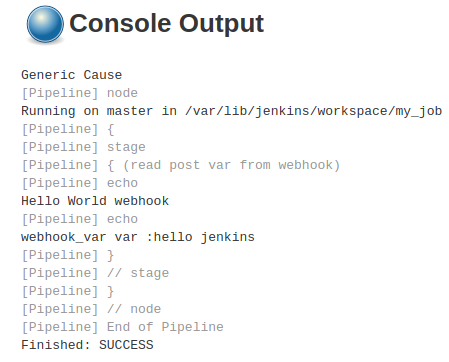
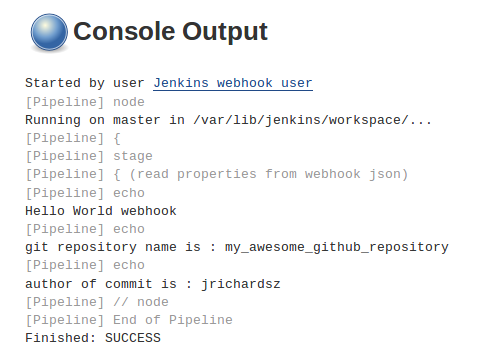
improve webhook post

Changed region(s): [[0.0312, 0.1823, 0.9978, 0.9724], [0.0624, 0.0, 0.5924, 0.1519], [0.4053, 0.7597, 0.5924, 0.8204]]

diff --git a/_posts/2018-01-24-devops-with-git-and-jenkins-using-webhooks.md b/_posts/2018-01-24-devops-with-git-and-jenkins-using-webhooks.md
@@ -11,26 +11,73 @@ In this post I will show you how integrate git  and jenkins to make a basic devo
 
 ![https://www.fourkitchens.com/wp-content/uploads/2017/01/Jenkins_git_0.png](https://www.fourkitchens.com/wp-content/uploads/2017/01/Jenkins_git_0.png)
 
-# Goals
+# Requirement
 
 - When I push to my git repository I need to launch  a jenkins job.
-- This Jenkins job must be access to some variables from webhook post in order to build my app, like
-  - repository git url
-  - pushed branch
 
-# GIT
+# Approach 01
 
-This topic is easy. We need some repository without errors and ready to build. For this post we will use a public github repository to avoid authentication configurations like : ssh-agent, ssh keys, etc. In subsequent posts I will show the exact steps to do this.
+- Create a job in jenkins in which you must clone the git repository at regular intervals. 
 
-# Jenkins
+> This is simple but, hardware consumption is elevated and is a little **outdated**
 
-We need the latest version of this CI Server.
+# Approach 02
 
-This is the common way to install jenkins on linux: [https://www.digitalocean.com/community/tutorials/how-to-install-jenkins-on-ubuntu-16-04](https://www.digitalocean.com/community/tutorials/how-to-install-jenkins-on-ubuntu-16-04)
+- Use the latest functionality provided by github, gitlab, bitbucket, etc called : **webhooks** and some configurations in our Jenkins platform.
+- This is the proposed flow :
 
-# Requirements
+![webhook-flow](https://raw.githubusercontent.com/airavata-courses/TeamAlpha/master/Airavata_Remote_Job_Runner/Instructions/Jenkins.png)
 
-- Jenkins instance ready to use.
+- Instead of tomcat and postgress you could use any technology.
+- In the arrow from github to jenkins we appreciate a string **webhook**. This represent a json sent from github to jenkins. We will call **webhook_json** to this json. In this json, github send us data like :
+  - git repository name
+  - branch which was changed
+  - commit id
+  - commit message
+  - commit author
+  - etc
+- This is an example of webhook json sent by github when a push is performed : [https://gist.github.com/jrichardsz/3ded3cb429d51cc826373e8bded15a8f](https://gist.github.com/jrichardsz/3ded3cb429d51cc826373e8bded15a8f)  
+
+> In this post I will show you how implement this **approach 02**.
+
+# Coming soon
+
+- I will develop a simple plugin to make life easier. This plugin will be called : **easy webhook plugin**
+
+# Prerequisites
+
+- Jenkins Server
+
+  - We need an instance ready to use of the latest version of this CI Server. 
+  - This is the common way to install jenkins on linux: [https://www.digitalocean.com/community/tutorials/how-to-install-jenkins-on-ubuntu-16-04](https://www.digitalocean.com/community/tutorials/how-to-install-jenkins-on-ubuntu-16-04)
+  - Openshift is a easy and fast way to get an online jenkins server.
+
+- Git repository
+
+  - We need some repository without errors and ready to build. For this post we will use a public github repository to avoid authentication configurations like : ssh-agent, ssh keys, etc. 
+  - In subsequent posts I will show the exact steps to do this.
+  
+- JSONPath specification
+  - Understand this specification that allow us lookup values from complicated json nodes in a easy way.
+  - [http://jsonpath.com/](http://jsonpath.com/)  
+  - [http://goessner.net/articles/JsonPath/](http://goessner.net/articles/JsonPath/)
+  - This will help us to extract values from our **webhook_json**
+
+# Steps
+
+1. Configure required plugins in jenkins.
+2. Jenkins user and password.
+3. Create a jenkins job which will be triggered by our git provider (github in this case). This job publish an http url ready to use. We will call **webhook_url** to this url.
+4. Configure **webhook_url** in webhook section of github of some repository.
+5. Test this flow, pushing some change to our git repository or simulating it using commandline.
+
+<br>
+<img src="https://memegenerator.net/img/instances/500x/72913234/lets-begin.jpg" width="300" style="display:  block;margin-left:  auto;margin-right: auto;">
+<br>
+
+# (01) Configure required plugins in jenkins.
+
+Install this pluging in jenkins server:
 
 - [Locale Plugin](https://wiki.jenkins.io/display/JENKINS/Locale+Plugin)
   - In order to change languaje to english because 90% of errors, issues and documentation are in english.
@@ -41,51 +88,38 @@ This is the common way to install jenkins on linux: [https://www.digitalocean.co
 - [Pipeline Plugin](https://jenkins.io/doc/book/pipeline/)
   - In order to create our workflows as [pipelines](https://www.sumologic.com/devops/understand-build-continuous-delivery-pipeline/) (build -> test -> sonar -> deploy -> etc) programmatically with groovy.
 
-- Jenkins user and password.
-  - To use as basic authentication in url
+# (02) Jenkins user and password.
 
-- Jsonpath : [http://jsonpath.com/](http://jsonpath.com/)
-  - To extract some values from json sent by git provider.
-  - We assume that this is the json :
+To use as basic authentication in url, we need some user created in jenkins server.
 
-  ```
-  {
-    "webhook_var": "hello jenkins",
-    "other_var": "other_value"
-  }
-  ```
-<br>
-<img src="https://memegenerator.net/img/instances/500x/72913234/lets-begin.jpg" width="300" style="display:  block;margin-left:  auto;margin-right: auto;">
-<br>
+In subsequent posts I show my plugin which does not need authentication.
 
-# Jenkins configuration
+# (03) Create a jenkins job
 
 - In jenkins home page click en new item and select "pipeline" and enter an item name:
 
     ![jenkins-new-item-pipeline.png]({{ site.url }}/images/jenkins-new-item-pipeline.png)
 
 - In *build trigger* section choose : Generic Webhook Trigger
-
-    - In variable input write : **webhook_var** (variable which will be extracted from json)
-    - In Expression input write : **$.webhook_var**. This is the jsonpath expression to extrac webhook_var value from json string.
+    - This plugin allow us to extract values from **webhook_json** using **jsonpath**
+    - According to a section of entire **webhook_json** :
+        
+<script src="https://gist.github.com/jrichardsz/828ff5f27aa06bbd2883be885fc0dd8e.js"></script>  
+  
+    - If we want to extract repository name and commit author we need to use this jsonpath expressions : **$.repository.name** and **$.pusher.name**
+    - To do thath, in variable input write : **repository_name** (variable which will be extracted from json)
+    - In Expression input write : **$.repository.name**. 
     - And check : **JSONPath**
+    - Do the same for **commit_author** variable name and **$.pusher.name** jsonpath expression.
+    - From this point, you can use **repository_name** and **commit_author** as variables in anyh part of this jenkins job.
 
-- In pipeline section , choose Pipeline Script
+- In **pipeline section** , choose Pipeline Script
 
     ![jenkins-pipeline-input-box.png]({{ site.url }}/images/jenkins-pipeline-input-box.png)
 
-  And in the input :
+  And in the input put this lines:
 
-```
-  node {
-      stage ('read post var from webhook') {
-         echo 'Hello World webhook'
-         echo 'webhook_var :' + webhook_var
-      }
-  }
-```
-
-  In this line *echo 'webhook_var :' + webhook_var* whre are using **webhook_var** var extracted from json using jsonpath
+<script src="https://gist.github.com/jrichardsz/ae0f32b1fd695b3647ff159b46ae6751.js"></script>
 
 - Save job configuration.
 
@@ -101,17 +135,41 @@ But if you test this url, jenkins shows you an error related to authentication, 
 http://some_user:some_password@JENKINS_HOST:JENKINS_PORT/generic-webhook-trigger/invoke
 ```
 
-# Execute jenkins job from commandline
+The previous url is ready to use in webhook configuration whether bitbucket, gitlab or github (this example)
+
+# (04) Configure Bitbucket webhook
+
+Now we must add this url as webhook endpoint in our git provider. Also select push event and json. This is similar in github, bitbucket or gitlab:
+
+- http://JENKINS_HOST:JENKINS_PORT/generic-webhook-trigger/invoke
+
+- Bitbucket
+  ![bitbucket-webhook-configuration.png]({{ site.url }}/images/webhooks-bitbucket.jpg)
+
+- Github
+ ![github-webhook-configuration.png]({{ site.url }}/images/github-webhook-configuration.png)
+
+- Gitlab
+ ![gitlab-webhook-configuration.png]({{ site.url }}/images/gitlab-webhooks.png)
+
+# (05) Test this flow 
+
+- Pushing to github
+
+After all steps, you just need push some change to your git repository and , this git provider will be execute the url published by jenkins, and jenkins job will be launched.
+
+But beware that each one of git providers , send a different json to jenkins. So you need to create a custom jsonpath expression depends of your git provider.
+
+- With command line
 
 When webhook is configured in your git repository, this will post to your public endpoint with a json contains information about git event. For example : user who commit, branch pushed, git url to clone, commit, message, etc. This json is different in github, bitbucket, gitlab, etc
 
 In order to test this job or simulate some git event, wen will use **curl** command to send a simple json to our job:
 
-```
-curl -X POST -H "Content-Type: application/json" \
--d '{ "webhook_var": "hello jenkins", "other_var": "other_value" }' \
--vs http://some_user:some_password@JENKINS_HOST:JENKINS_PORT/generic-webhook-trigger/invoke
-```
+<script src="https://gist.github.com/jrichardsz/71249d4d5531060aca924cf3cf0dbceb.js"></script>
+
+- Verify on jenkins server
+
  If no errors, you will see a success response in commanline and in your jenkins you will see a job execution:
 
  ![jenkins-pipeline-input-box.png]({{ site.url }}/images/job_history.png)
@@ -122,24 +180,6 @@ Click in job console of this execution and you will see :
 
 This will confirm that you have a jenkins job ready to receive post from everywhere like bitbucket, github, gitlab, etc
 
-# Configure Bitbucket webhook
-
-Now we must add this url as webhook endpoint in our git provider: http://JENKINS_HOST:JENKINS_PORT/generic-webhook-trigger/invoke
-
-- Bitbucket
-  ![https://blog.bitbucket.org/files/2015/06/webhooks.jpg](https://blog.bitbucket.org/files/2015/06/webhooks.jpg)
-
-- Github
- ![jenkins-pipeline-input-box.png]({{ site.url }}/images/github_webhook.png)
-
-- Gitlab
-![https://about.gitlab.com/images/blogimages/continuous-delivery-with-gitlab-and-convox/gitlab-webhooks.png](https://about.gitlab.com/images/blogimages/continuous-delivery-with-gitlab-and-convox/gitlab-webhooks.png)
-
-# Push and triggering webhooks
-
-After all steps, you just need push some change to your git repository and , this git provider will be execute the url published by jenkins, and jenkins job will be launched.
-
-But beware that each one of git providers , send a different json to jenkins. So you need to create a custom jsonpath expression depends of your git provider.
 
 # Coming soon
 
